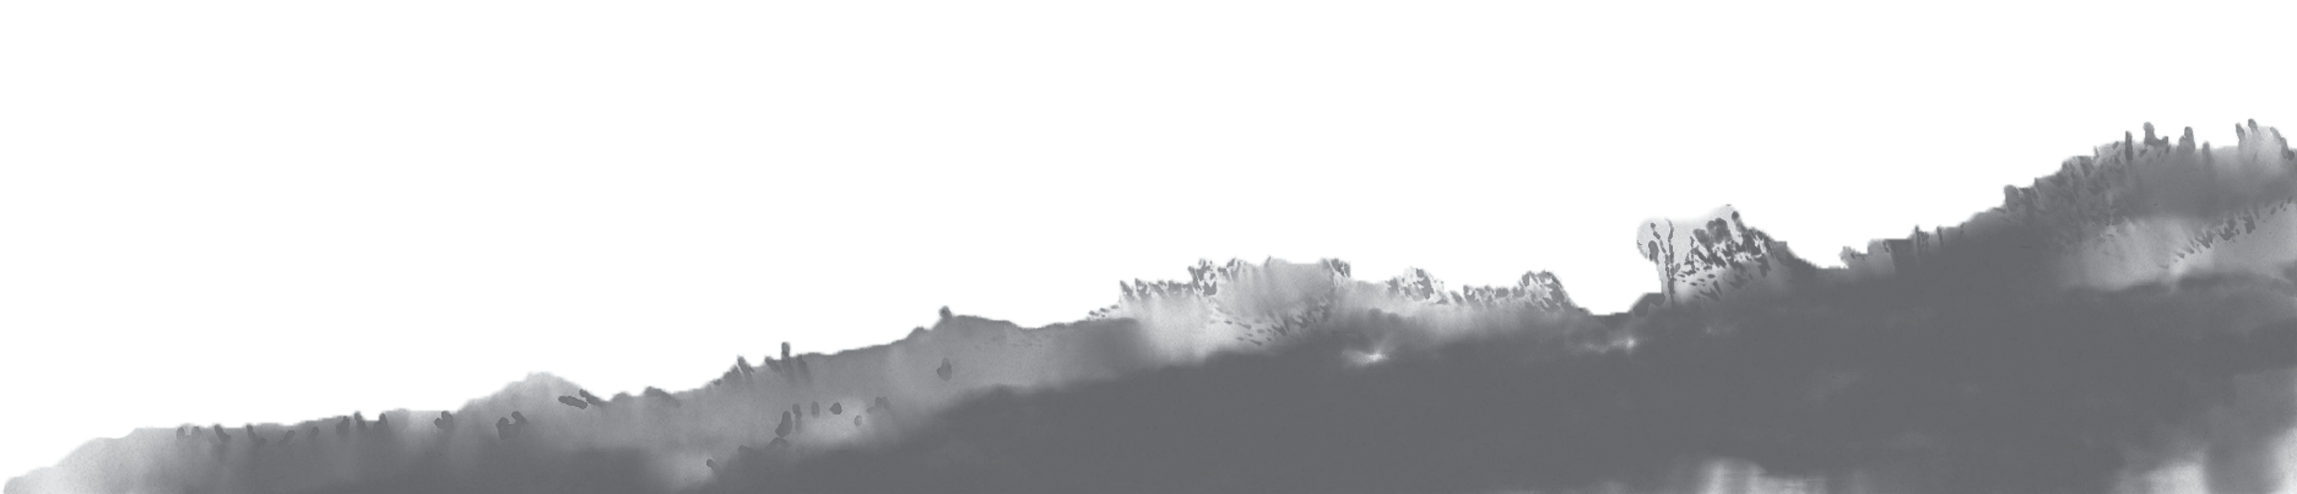
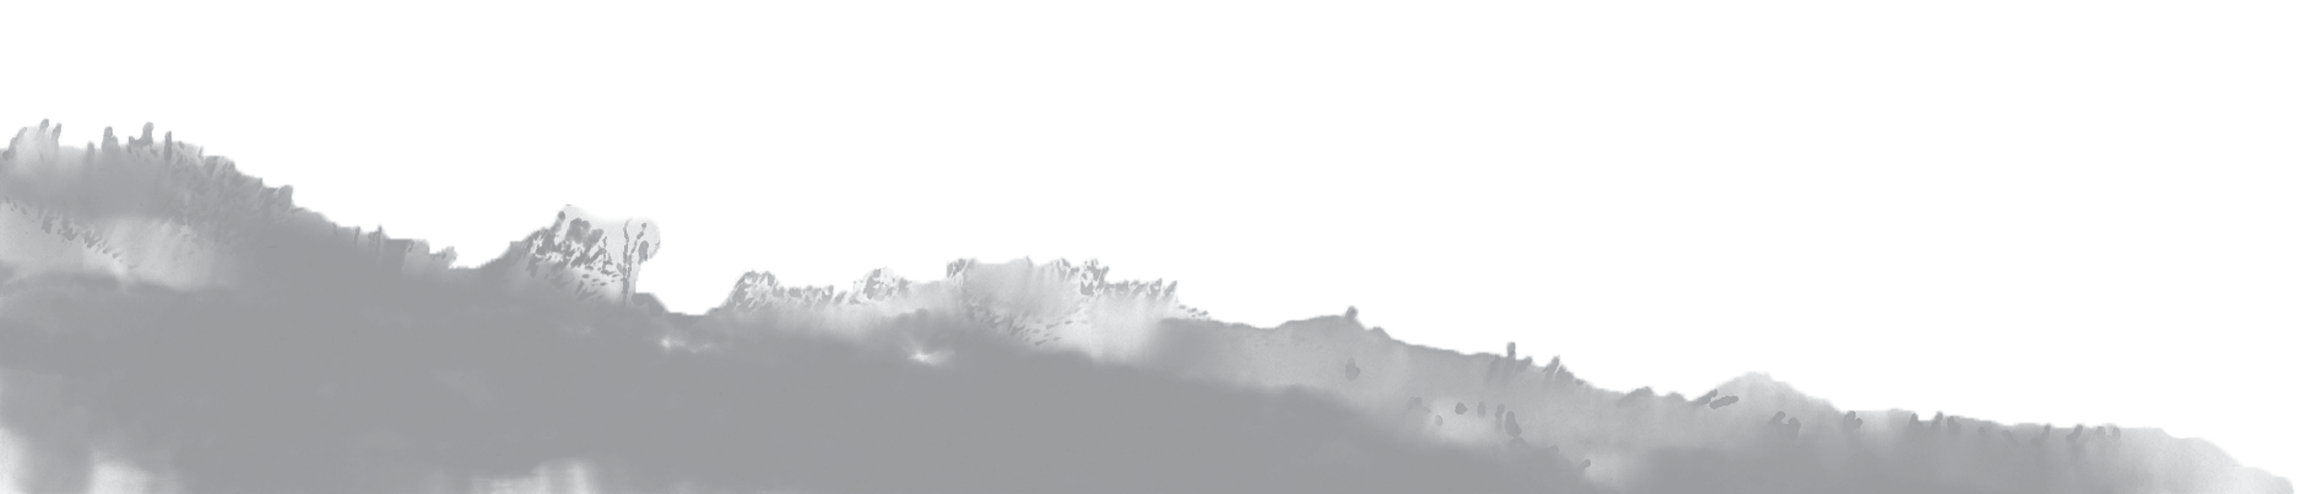
services section added

diff --git a/src/Services/Services.jsx b/src/Services/Services.jsx
@@ -7,7 +7,7 @@ const Wrapper = styled.div`
 `
 
 const Scene = styled.section`
-  height: calc(150vh - 117px);
+  height: calc(120vh - 117px);
   position: relative;
   width: 100%;
   display: flex;
@@ -15,15 +15,16 @@ const Scene = styled.section`
 
 const Clouds = styled.ul`
   position: absolute;
-  top: -20%;
+  top: 0;
   width: 100%;
   display: flex;
   z-index: 1;
+  opacity: 0.8;
 `
 
 const CloudItem = styled.li`
   position: relative;
-  height: 420px;
+  height: 300px;
   width: 720px;
   img {
     height: 100%;
@@ -51,8 +52,10 @@ const MainText = styled.article`
   padding: 0 20px;
   text-align: left;
   z-index: 2;
-  margin-left: 10%;
-  margin-top: 330px;
+  margin-left: auto;
+  margin-right: 10%;
+  text-align: right;
+  margin-top: 40%;
   max-width: 373px;
   font-size: 14px;
   line-height: 24px;
@@ -62,83 +65,73 @@ const MainText = styled.article`
   h2 {
     font-weight: 600;
     font-size: 32px;
-    color: #606060;
+    color: ${props => props.theme.h1};
     margin-bottom: 40px;
   }
 `
 
-const BigMountain = styled.img`
-  z-index: 2;
-  transition: .2s ease;
-  width: 100vw;
-  
-`
-const Mountain = styled.div`
+const GrassFloorContainer = styled.div`
   display: flex;
   position: absolute;
   z-index: 1;
-  right: -8%;
-  top: 0;
+  left: -10%;
+  bottom: -1%;
   width: 100%;
-  justify-content: center;
 `
 
-const LowMountain = styled.div`
+const Floor = styled.img`
+  z-index: 2;
+  transition: .2s ease;
+  will-change: transform;
+  width: 100%;
+  max-width: 800px;
+`
+
+const TreeContainer = styled.div`
   display: flex;
   position: absolute;
   z-index: 1;
-  left: 10%;
-  bottom: 10%;
+  left: -10%;
+  bottom: -1%;
   width: 100%;
-  justify-content: center;
+`
+
+const Tree = styled.img`
+  z-index: 2;
+  transition: .2s ease;
+  will-change: transform;
+  max-width: 400px;
+`
+const LilMountainContainer = styled.div`
+  display: flex;
+  position: absolute;
+  z-index: 1;
+  right: -10%;
+  top: 15%;
   transform: rotateY(-180deg);
 `
 
-const BigMountain2 = styled.img`
+const LilMountain = styled.img`
   z-index: 2;
   transition: .2s ease;
-  width: 120vw;
-  
-`
-
-
-const TailContainer = styled.figure`
-  display: flex;
-  position: absolute;
-  width: 100%;
-  justify-content: center;
-  transform: rotate(-90deg);
-  z-index: 0;
-  left: -12%;
-  top: -4%;
-`
-
-const DragonTail = styled.img`
-  z-index: 2;
-  transition: .2s ease;
-  opacity: 0.4;
   will-change: transform;
+  max-width: 400px;
 `
-
-const DragonContainer = styled.figure`
+const BoatContainer = styled.div`
   display: flex;
   position: absolute;
-  width: 100%;
-  justify-content: center;
   z-index: 1;
-  right: -12%;
-  bottom: 0%;
-  right: -54%;
-  bottom: 30%;
+  left: 40%;
+  top: 50%;
 `
 
-const Dragon = styled.img`
+const Boat = styled.img`
   z-index: 2;
-  transition: .3s ease;
-  opacity: 0.4;
+  transition: .2s ease;
   will-change: transform;
-  transform-origin: bottom right;
+  max-width: 100px;
 `
+
 
 
 function Services() {
@@ -146,17 +139,61 @@ function Services() {
     <Wrapper>
 
       <Scene>
-        <Mountain>
+        <LilMountainContainer>
+          <Parallax
+            className={'mountain'}
+            renderLayer={percentage => {
+              return(
+                <LilMountain style={{
+                  transform: `translateX(${percentage <= 0.5 && Math.floor(percentage * 40)}%)`
+                }} src="/lower-mountain.png" alt="little mountain"/>
+              )}}
+          >
+          </Parallax>
+        </LilMountainContainer>
+
+        <GrassFloorContainer>
+          <Parallax
+            className={'mountain'}
+            renderLayer={percentage => {
+              return(
+                <Floor style={{
+                  transform: `translateX(${percentage <= 0.35 && Math.floor(percentage * 40)}%)`
+                }} src="/floor.png" alt="grass floor"/>
+              )}}
+          >
+          </Parallax>
+        </GrassFloorContainer>
+
+        
+        <BoatContainer>
+          <Parallax
+            className={'mountain'}
+            renderLayer={percentage => {
+              return(
+                <Boat style={{
+                  transform: `translateX(${Math.floor(percentage * 100)}%)`,
+                  opacity:  (percentage).toFixed(1)
+                }} src="/boat.png" alt="boat"/>
+              )}}
+          >
+          </Parallax>
+        </BoatContainer>
+
+
+        
+        <TreeContainer>
           <Parallax
             className={'mountain'}
             renderLayer={percentage => (
-              <BigMountain style={{
-                transform: `translateY(${Math.floor(percentage * 40)}%)`
-              }} src="/main-mountain2.png" alt="big mountain"/>
+              <Tree style={{
+                transform: `translateX(${Math.floor(percentage * 40)}%)`
+              }} src="/tree.png" alt="tree"/>
             )}
           >
           </Parallax>
-        </Mountain>
+        </TreeContainer>
+
         <Clouds>
           <CloudItem>
             <img src="/nubes.png" alt="cloud"/>
@@ -176,52 +213,31 @@ function Services() {
           </CloudItem>
         </Clouds>
 
-        <TailContainer>
-          <Parallax
-            className={'mountain'}
-            renderLayer={percentage => (
-              <DragonTail style={{
-                transform: `translate(-${Math.floor(percentage * 50)}%, ${Math.floor(percentage * 50)}%)`
-              }} src="/dragontail.png" alt="dragon tail"/>
-            )}
-          >
-          </Parallax>
-        </TailContainer>
-
-        
-        <DragonContainer>
-          <Parallax
-            className={'mountain'}
-            renderLayer={percentage => (
-              <Dragon style={{
-                transform: `rotate(-${Math.floor(percentage * 30)}deg) translateX(-${Math.floor(percentage * 40)}%)`
-              }} src="/dragon.png" alt="dragon"/>
-            )}
-          >
-          </Parallax>
-        </DragonContainer>
-
-        <LowMountain>
-          <Parallax
-            className={'mountain'}
-            renderLayer={percentage => (
-              <BigMountain2 style={{
-                transform: `translateY(-${Math.floor(percentage * 40)}%)`
-              }} src="/main-mountain2.png" alt="big mountain"/>
-            )}
-          >
-          </Parallax>
-        </LowMountain>
-
-
 
         <MainText>
           <h2>
-            what we do
+            services
           </h2>
           <p>
-            we focus on following the <strong>developer’s career</strong> by assisting with <strong>customized tools and needs</strong> for each person: Do you wish to get better at communication skills? Do you want to focus on a set of <strong>specific technologies</strong>? Which way do you want to take your career next? We find the <strong>exact opportunity</strong> for your <strong>specific needs</strong> creating the best professional development for senior engineers who seek to reach their next level, professionally and in their lives.
+            Because we want to be a differentiated player in the market, we have <strong>boutique services</strong> that stand out by themselves:  
           </p>
+          <ul>
+            <li>
+              Software 
+            </li>
+            <li>
+              Data (Science, ML, AI, Engineering) 
+            </li>
+            <li>
+              UX/UI Design 
+            </li>
+            <li>
+              Infrastructure  
+            </li>
+            <li>
+              Cybersecurity  
+            </li>
+          </ul>
         </MainText>
       </Scene>
     </Wrapper>

diff --git a/src/WhatWeDo/WhatWeDo.jsx b/src/WhatWeDo/WhatWeDo.jsx
@@ -62,7 +62,7 @@ const MainText = styled.article`
   h2 {
     font-weight: 600;
     font-size: 32px;
-    color: #606060;
+    color: ${({theme}) => theme.h1};
     margin-bottom: 40px;
   }
 `
